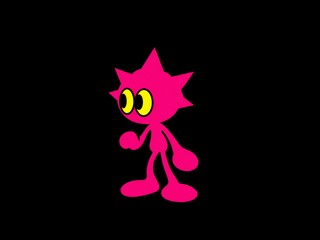
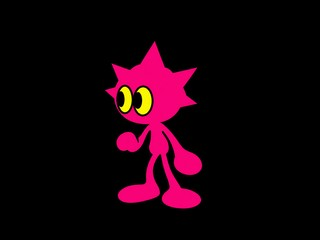
Grow the idle character ~18%.
Generated with [Devin](https://devin.ai)

Changed region(s): [[0.3125, 0.175, 0.6562, 0.875], [0.5312, 0.35, 0.625, 0.4958]]

diff --git a/friend/gizmo_friend/static/oddity-device.css b/friend/gizmo_friend/static/oddity-device.css
@@ -18,7 +18,7 @@ main{padding:0 16px}.simulator{width:min(650px,100%,calc((100svh - 180px)*1145/1
 .device-talk:active{cursor:grabbing}.device-talk:focus-visible{outline:2px solid #ffb5da;outline-offset:4px}
 .device-talk:before{content:'';position:absolute;inset:-10% -55% -10% -90%}
 .device-up:before,.device-down:before,.device-select:before{content:'';position:absolute;inset:0 -12px 0 -3px}
-.device .friend{position:absolute;left:31.5%;top:26%;width:34%;height:50%;display:grid;place-items:center;pointer-events:none}.device .friend img{height:100%;width:auto;object-fit:contain}
+.device .friend{position:absolute;left:29%;top:22%;width:41%;height:60%;display:grid;place-items:center;pointer-events:none}.device .friend img{height:100%;width:auto;object-fit:contain}
 .device .caption,.device .stage:not(.has-scene) .caption{font-size:3.6cqw;bottom:10%;left:8%;right:8%;line-height:1.25;max-height:34%}
 .device .listening,.device .stage-top,.device .stage-bottom{display:none}
 .device .play-blocked{font-size:3.2cqw;padding:2cqw 2.8cqw}

diff --git a/friend/gizmo_friend/static/oddity.html b/friend/gizmo_friend/static/oddity.html
@@ -7,7 +7,7 @@
   <link rel="icon" href="data:,">
   <link rel="stylesheet" href="/static/oddity-boot.css?v=gate14">
   <link rel="stylesheet" href="/static/oddity.css">
-  <link rel="stylesheet" href="/static/oddity-device.css?v=gate50">
+  <link rel="stylesheet" href="/static/oddity-device.css?v=gate51">
   <link rel="stylesheet" href="/static/oddity-experience.css">
   <link rel="preload" as="image" href="/static/device-reference-ptt-pressed.png">
   <link rel="preload" as="image" href="/static/oddity-character-half.png?v=char3">

diff --git a/body/assets/export_bundle.py b/body/assets/export_bundle.py
@@ -155,7 +155,7 @@ def home_base(source: Path, size: tuple[int, int]) -> Image.Image:
     width, height = size
     with Image.open(source) as opened:
         character = ImageOps.exif_transpose(opened).convert("RGBA")
-    box = (max(1, round(width * 0.58)), max(1, round(height * 0.72)))
+    box = (max(1, round(width * 0.66)), max(1, round(height * 0.78)))
     character.thumbnail(box, Image.Resampling.LANCZOS)
     canvas = Image.new("RGBA", size, (0, 0, 0, 255))
     x = (width - character.width) // 2 - round(width * 0.02)
